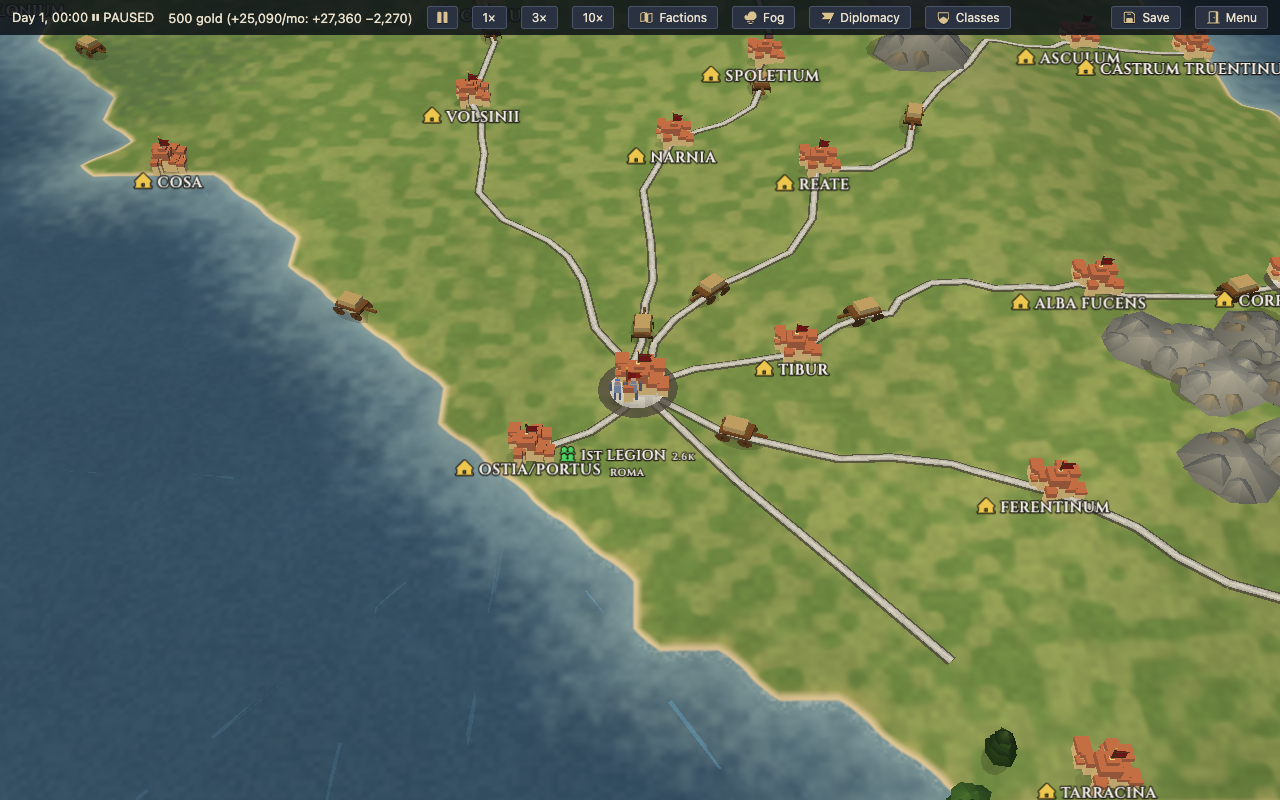
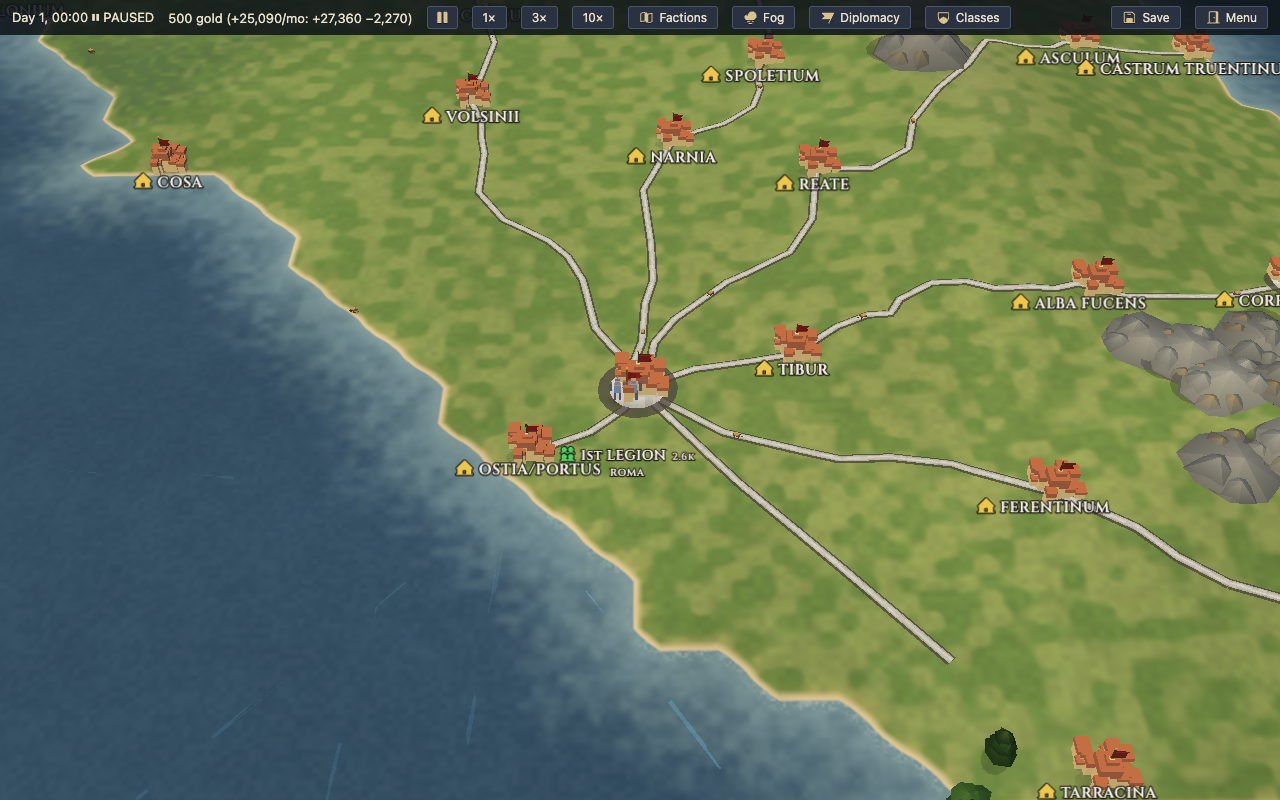
campaign-map-polish 11: cart size to road width
Trade carts emitted at size 6.0 (~5x the road width) read as oversized units
(feedback #10). They are moving decorations, not units — drop to size 1.3 /
height 0.9, about the road's full width. rome-close + selected baselines re-blessed.

diff --git a/web/src/campaign/renderer.ts b/web/src/campaign/renderer.ts
@@ -1243,8 +1243,8 @@ function campaignRoadCarts(
             x,
             y,
             z: Math.max(0, field.heightAt(x, y)),
-            size: 6.0,
-            height: 4.0,
+            size: 1.3,
+            height: 0.9,
             kind: "cart",
             shade: 0.55 + phase * 0.35,
             yaw: dir > 0 ? ang : ang + Math.PI,
